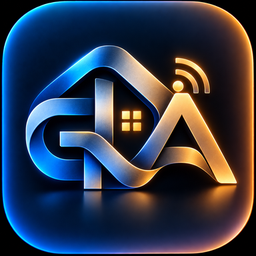
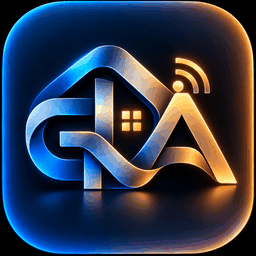
L'icona di gdahome ci sta in un rapporto, e arriva al cruscotto
«Possibile mai che nel cruscotto installatore e gestore non si vede icona
di gdahome degli aggiornamenti, cioe' proprio la nostra.» Nello scatto
Duck DNS, Git pull e Home Assistant Core hanno il loro marchio, gdahome
una «G».

Il dato viaggia come deve, e si e' guardato passo per passo: l'entita'
dell'add-on dichiara `entity_picture` (`/api/hassio/addons/<slug>/icon`),
il ponte la chiede a Home Assistant con la strada dell'app
(`ponte/aggiornamenti/logo`), e i byte partono col rapporto dentro
`quelliCheMancano`. Facendolo girare davvero con l'icona vera si vede dove
si ferma:

    l'icona di update.gdahome_update non si manda: 102338 byte,
    piu' dei 65536 che stanno in un rapporto

In un rapporto un'icona ci sta fino a 64 KiB — il tetto lo fissa il quadro,
che i rapporti troppo grossi li rifiuta con un 413, e un rapporto rifiutato
non e' un'icona che salta, e' tutto il rapporto. Sopra quel tetto pero' il
ponte non dice «oggi non ce l'ho»: dice «un'icona non ce l'ha», e il quadro
se lo segna e non la richiede mai piu'. Da qui la lettera, per sempre.

Le icone degli altri add-on stanno tutte sotto il tetto. La nostra era
l'unica sopra: centodue kilobyte per un disegno di duecentocinquantasei
punti. Adesso ne pesa ventotto — stessa misura, stessa figura, tavolozza
invece di colore pieno — e alle misure in cui si vede davvero (quaranta,
quarantotto, sessantaquattro punti) non si distingue dall'altra.
[…]

diff --git a/ponte/test/i-segni-partono-da-casa.test.js b/ponte/test/i-segni-partono-da-casa.test.js
@@ -14,6 +14,7 @@
  * Adesso la strada e' una sola: quella che gia' funzionava.
  */
 
+import { readFileSync } from "node:fs";
 import { test } from "node:test";
 import assert from "node:assert/strict";
 
@@ -206,4 +207,32 @@ test("un'icona che non ci sta si dice nel registro, e non si richiede ogni minut
     detto.some((riga) => /piu' dei \d+ che stanno in un rapporto/.test(riga)),
     `il registro non dice perche': ${JSON.stringify(detto)}`,
   );
+});
+
+test("l'icona di gdahome ci sta in un rapporto: è l'unica che dipende da noi", async () => {
+  /* Dal campo, con lo scatto del cruscotto: «negli aggiornamenti non esce
+   * icona gdahome, cioè proprio la nostra». Duck DNS, Git pull, Home Assistant
+   * Core avevano il loro marchio; gdahome la lettera «G».
+   *
+   * Non era il modo in cui il dato viaggia — quello funziona, e lo dicono le
+   * prove qui sopra. Era il file: `ponte/icon.png` pesava centodue kilobyte,
+   * il tetto di quello che sta in un rapporto è sessantaquattro, e sopra il
+   * tetto il ponte non dice «oggi non ce l'ho» ma «un'icona non ce l'ha» —
+   * che il quadro si segna **per sempre**, e non la richiede mai più. Le icone
+   * degli altri add-on stanno tutte sotto il tetto: la nostra era l'unica
+   * sopra, e per questo era l'unica che mancava.
+   *
+   * Questa prova guarda il file vero e non una finta, perché è il file vero
+   * che parte: è l'unico modo di accorgersene il giorno che qualcuno rifà il
+   * disegno e lo salva grosso. */
+  const { cheImmagineE, UN_SEGNO_AL_MASSIMO } = await import("../src/segni.js");
+  const byte = readFileSync(new URL("../icon.png", import.meta.url));
+  assert.ok(
+    byte.length <= UN_SEGNO_AL_MASSIMO,
+    `la nostra icona pesa ${byte.length} byte e in un rapporto ne stanno ${UN_SEGNO_AL_MASSIMO}: ` +
+      "nel cruscotto resterebbe la lettera, per sempre",
+  );
+  /* E si sa ancora leggere: un'icona sotto il tetto ma di una razza che non si
+   * sa mostrare finirebbe nello stesso posto. */
+  assert.equal(cheImmagineE(byte), "image/png");
 });

diff --git a/ponte/CHANGELOG.md b/ponte/CHANGELOG.md
@@ -47,6 +47,15 @@ si trovava ancora lì quasi sempre. Adesso si guarda per dodici secondi, e solo
 se dopo c'è ancora si dice — dicendo anche cosa fare, perché quasi sempre è un
 apparecchio che dorme e l'ordine di uscire non lo sente finché non si sveglia.
 
+**Negli aggiornamenti mancava proprio la nostra icona.** Nel cruscotto Duck
+DNS, Git pull e Home Assistant Core avevano il loro marchio e gdahome una «G».
+Il modo in cui l'icona viaggia funziona — la casa la prende dal Supervisor e la
+manda col rapporto — ma in un rapporto un'icona ci sta fino a 64 KiB, e la
+nostra ne pesava 102: sopra quel peso il ponte non dice «oggi non ce l'ho», dice
+«un'icona non ce l'ha», e il quadro se lo segna e non la richiede più. Era
+l'unica icona sopra il tetto di tutta la casa. Adesso pesa 28 KiB, sempre 256
+per 256, e una prova guarda il file vero perché non succeda di nuovo.
+
 **La finestra di una tessera ci sta dentro la sua card.** «Aggiusta i margini
 del popup allagamenti, non entra all'interno tutto»: negli Allagamenti
 «Asciutto» finiva oltre il bordo destro e il titoletto «LO STATO» spariva a
